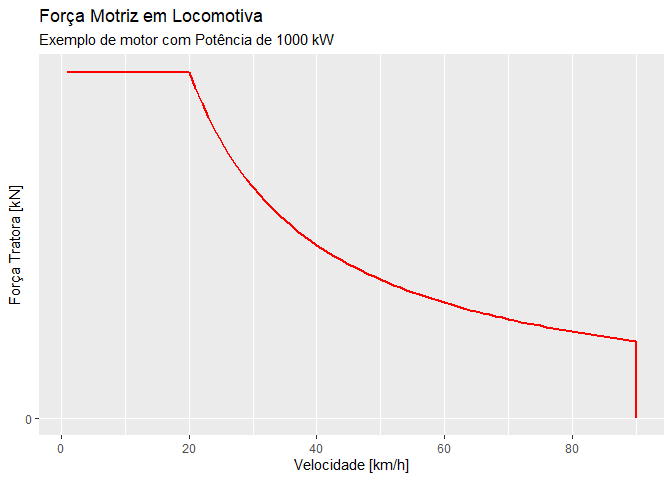
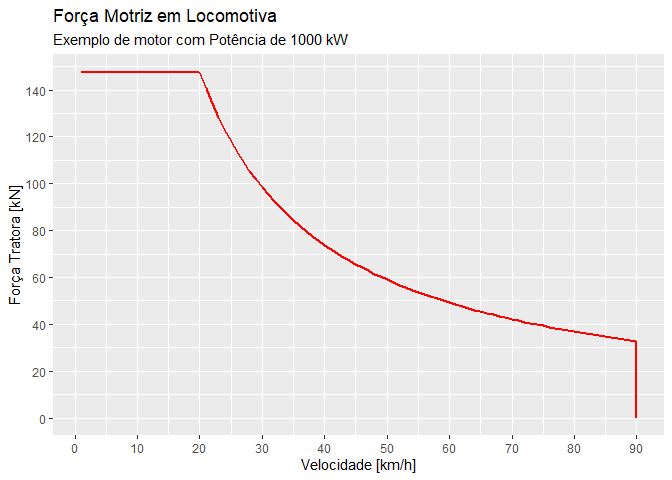
updated plots

diff --git a/2025/README.md b/2025/README.md
@@ -165,8 +165,8 @@ df <- data.frame(v = v,
 ## Plotar
 df |> ggplot(aes(x=v, y=Ft)) +
   geom_line(color='red', linewidth=1) +
-  scale_x_continuous(breaks=seq(0,140,20)) +
-  scale_y_continuous(breaks=seq(0,3000,500)) +
+  scale_x_continuous(breaks=seq(0,vmax,10)) +
+  scale_y_continuous(breaks=seq(0,round(Ftce/5,0)*5,20)) +
   xlab("Velocidade [km/h]") +
   ylab("Força Tratora [kN]") +
   labs(title = "Força Motriz em Locomotiva",
